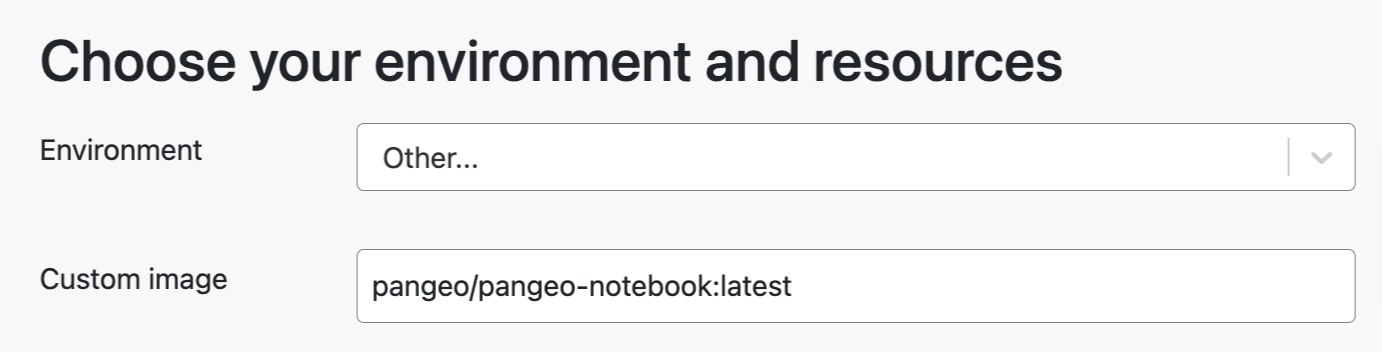
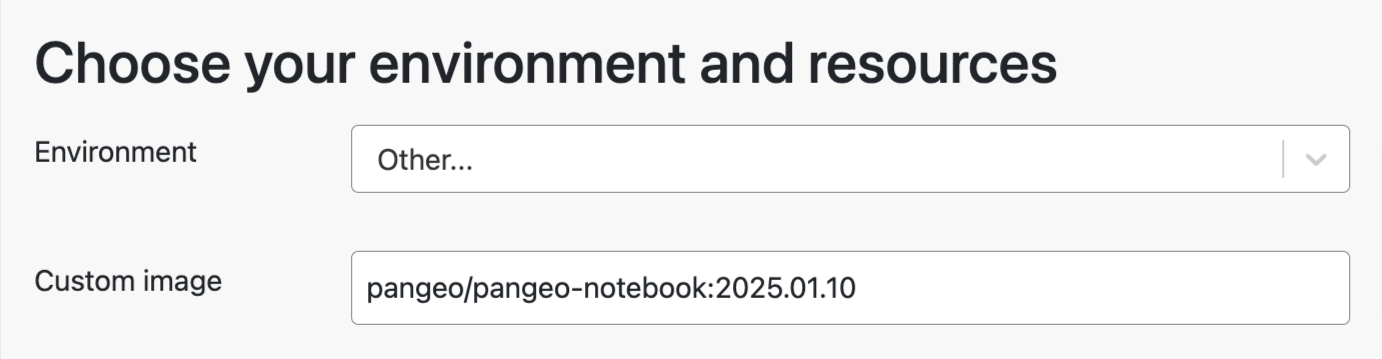
Deploy preview for PR 201 🛫

diff --git a/pr-preview/pr-201/nasa-veda-platform/scientific-computing/custom-environments.html b/pr-preview/pr-201/nasa-veda-platform/scientific-computing/custom-environments.html
@@ -670,7 +670,7 @@ ul.task-list li input[type="checkbox"] {
 </header>
 
 
-<p>The VEDA JupyterHub lists a few pre-configured environments (collections of Python or R libraries and/or other software) as <strong>Server Options</strong> intended to cover most common geospatial data science needs. These are effectively pre-built Docker images ready for users to launch.</p>
+<p>The VEDA JupyterHub lists a few pre-configured environments (collections of Python or R libraries and/or other software) as <strong>Server Options</strong> intended to cover most common geospatial data science needs. These are pre-built Docker images ready for users to launch.</p>
 <p>If you need a different configuration, there are two options for launching a <em>custom environment</em>:</p>
 <ul>
 <li><strong>Use some other pre-built, public Docker image</strong> (see <a href="#environment-other">Environment: Other</a>)</li>
@@ -688,17 +688,30 @@ ul.task-list li input[type="checkbox"] {
 </figure>
 </div>
 <p>At a minimum, the <strong>Custom image</strong> field must include both a name and a tag in the form <code>NAME:TAG</code>. There is no assumption that a name without a tag implies the <code>latest</code> tag, so a tag must be supplied.</p>
-<p>When the hostname of the image registry is not specified, it defaults to <code>docker.io</code>, the canonical hostname of the official Docker registry. Therefore, the following 2 image identifiers are equivalent:</p>
+<p>When the hostname of the image registry is not specified, it defaults to <code>docker.io</code>, the canonical hostname of the official Docker registry. Therefore, the following custom image identifiers are equivalent:</p>
 <ul>
-<li><code>pangeo/pangeo-notebook:latest</code> (as shown in the screenshot above)</li>
-<li><code>docker.io/pangeo/pangeo-notebook:latest</code> (including a registry hostname prefix)</li>
+<li><code>pangeo/pangeo-notebook:2025.01.10</code> (registry hostname is <em>implicitly</em> <code>docker.io</code>)</li>
+<li><code>docker.io/pangeo/pangeo-notebook:2025.01.10</code></li>
 </ul>
-<p>If you wish to use an image hosted in a regsistry other than <code>docker.io</code>, you must explicitly specify the hostname of the registry. Note the intervening <code>/</code> between the hostname and the remainder of the identifier shown in the second bulleted item above.</p>
+<p>If you wish to use an image hosted in a registry other than <code>docker.io</code>, the custom image identifier must also include the registry hostname (in addition to a name and a tag). For example, images hosted in the GitHub Container Registry use the hostname <code>ghrc.io</code>, such as this “Tidyverse based R image with Python”: <code>ghcr.io/nmfs-opensci/container-images/py-rocket-base:4.4-3.10</code></p>
+<div class="callout callout-style-default callout-warning callout-titled">
+<div class="callout-header d-flex align-content-center">
+<div class="callout-icon-container">
+<i class="callout-icon"></i>
+</div>
+<div class="callout-title-container flex-fill">
+Warning
+</div>
+</div>
+<div class="callout-body-container callout-body">
+<p>If you specify <code>latest</code> for the image tag, keep in mind that the image tagged <code>latest</code> may change over time, always referring to the latest published version. If you wish to “pin” the image each time you launch an environment, then use a specific tag, as shown in the examples above, to ensure you’re launching an environment from the same image version each time.</p>
+</div>
+</div>
 <p>Once you have specified your custom image, choose your desired <strong>Resource Allocation</strong> and press the <strong>Start</strong> button at the bottom of the form to launch your environment.</p>
 </section>
 <section id="environment-build-your-own-image" class="level2">
 <h2 class="anchored" data-anchor-id="environment-build-your-own-image">Environment: Build your own image</h2>
-<p>When you wish to use a custom environment, but are not aware of a publicly available Docker image that suits your needs, the <strong>Environment</strong> option <strong>Build your own image</strong> provides a relatively easy and convenient means for building and using your desired environment (image), without requiring knowledge of Docker.</p>
+<p>When you wish to use a custom environment, but are not aware of a publicly available Docker image that suits your needs, the <strong>Environment</strong> option <strong>Build your own image</strong> provides a relatively easy and convenient means for building your desired image, without requiring knowledge of Docker.</p>
 <p>This option leverages the <a href="https://repo2docker.readthedocs.io/en/stable/index.html">repo2docker</a> tool to handle the grunt work of building a custom Docker image for you, by allowing you to <strong>fully describe your desired image via files in a public code repository</strong>.</p>
 <div class="callout callout-style-default callout-note callout-titled">
 <div class="callout-header d-flex align-content-center">
@@ -715,18 +728,25 @@ Note
 </div>
 <section id="describing-your-image" class="level3">
 <h3 class="anchored" data-anchor-id="describing-your-image">Describing Your Image</h3>
-<p>The beauty of leveraging <strong>repo2docker</strong> is that it will use the contents of a public code repository (repo) to build a Docker image, doing all of the heavy lifting for you. You do not need to know how to write a <code>Dockerfile</code> because it generates one for you. Hence the name <em>repo2docker</em>.</p>
-<p>In brief, repo2docker allows you to describe the following within a public GitHub repository:</p>
+<p>The beauty of <strong>repo2docker</strong> is that it will use the contents of a public code repository (repo) to build a Docker image, doing all of the heavy lifting for you. You do not need to know how to write a <code>Dockerfile</code> because it generates one for you. Hence the name <em>repo2docker</em>.</p>
+<p>In brief, repo2docker allows you to describe the following within a public GitHub repository (for full details, see <a href="https://repo2docker.readthedocs.io/en/stable/configuration/index.html">Configuring your repository</a>):</p>
 <ul>
-<li>A <strong>list of dependencies</strong> to install, specified via various files (such as <code>environment.yml</code>, <code>requirements.txt</code>, or <code>apt.txt</code>, among others), and are installed <strong>in addition to</strong> a <a href="https://github.com/jupyterhub/repo2docker/blob/HEAD/repo2docker/buildpacks/conda/environment.yml">base set of dependencies</a>.</li>
-<li><em>Optionally</em>, a <strong>post-build script</strong> to run after all dependencies are installed (this must be named <a href="https://repo2docker.readthedocs.io/en/stable/config_files.html#postbuild-run-code-after-installing-the-environment">postBuild</a>)</li>
-<li><em>Optionally</em>, a <strong>pre-session script</strong> to run each time you start a server with your image (this must be named <a href="https://repo2docker.readthedocs.io/en/stable/config_files.html#start-run-code-before-the-user-sessions-starts">start</a>)</li>
+<li>A <strong>list of packages and runtimes</strong> to install (<strong>in addition to</strong> a <a href="https://github.com/jupyterhub/repo2docker/blob/HEAD/repo2docker/buildpacks/conda/environment.yml">base set of packages</a>), specified via various files, such as the following (among others):
+<ul>
+<li><code>environment.yml</code>: for any kind of conda package (and/or <code>pip</code> package), including specific versions of programming languages</li>
+<li><code>install.R</code>: for R packages (if not using <code>environment.yml</code>)</li>
+<li><code>requirements.txt</code>: for <code>pip</code> packages (if not using <code>environment.yml</code>)</li>
+<li><code>runtime.txt</code>: for specifying versions of runtimes (such as Python or R) when other files (such as <code>install.R</code> and <code>requirements.txt</code>) do not support doing so</li>
+<li><code>apt.txt</code>: for specifying Ubuntu packages installed via <code>apt</code></li>
+</ul></li>
+<li><em>Optionally</em>, a <strong>post-build script</strong> to run after all packages and runtimes are installed (this must be named <a href="https://repo2docker.readthedocs.io/en/stable/config_files.html#postbuild-run-code-after-installing-the-environment">postBuild</a>)</li>
+<li><em>Optionally</em>, a <strong>pre-session script</strong> to run each time you launch a new environment with your image (this must be named <a href="https://repo2docker.readthedocs.io/en/stable/config_files.html#start-run-code-before-the-user-sessions-starts">start</a>)</li>
 </ul>
-<p>Such files from your repository are used to construct a <code>Dockerfile</code> file on your behalf, so you don’t have to write one yourself, unless your really want to. If your repo contains a <code>Dockerfile</code>, repo2docker will ignore all other files in your repo that it would otherwise use to generate a <code>Dockerfile</code>, and simply use the <code>Dockerfile</code> from your repo.</p>
+<p>Such files from your repository are used to construct a <code>Dockerfile</code> file on your behalf, so you don’t have to write one yourself, unless you really want to. If your repo contains a <code>Dockerfile</code>, repo2docker will ignore all other files in your repo that it would otherwise use to generate a <code>Dockerfile</code>, and simply use the <code>Dockerfile</code> from your repo directly.</p>
 <p>For complete details on what repo2docker supports, see the following:</p>
 <ul>
-<li><a href="https://repo2docker.readthedocs.io/en/stable/usage.html#where-to-put-configuration-files">Where to put configuration files</a></li>
 <li><a href="https://repo2docker.readthedocs.io/en/stable/configuration/index.html">Configuring your repository</a></li>
+<li><a href="https://repo2docker.readthedocs.io/en/stable/usage.html#where-to-put-configuration-files">Where to put configuration files</a></li>
 <li><a href="https://repo2docker.readthedocs.io/en/stable/architecture.html">Architecture</a></li>
 <li><a href="https://repo2docker.readthedocs.io/en/stable/faq.html">Frequently Asked Questions (FAQ)</a></li>
 <li><a href="https://github.com/binder-examples">Example repositories</a></li>
@@ -747,7 +767,21 @@ Note
 <li><strong>Full URL</strong> (e.g., <a href="https://github.com/binder-examples/conda" class="uri">https://github.com/binder-examples/conda</a>)</li>
 <li><strong>Namespace/name pair</strong> (e.g., <code>binder-examples/conda</code>), where a namespace is either a GitHub <em>username</em> or <em>organization</em> (<code>binder-examples</code> in this example).</li>
 </ul>
-<p>In the <strong>Git Ref</strong> field, if you want repo2docker to use the most recent versions of files from the default branch of the repository (typically <code>main</code>), then use the default value <strong>HEAD</strong> to indicate the most recent commit. Alternatively, you may specify a <strong>branch name</strong>, a <strong>tag</strong>, or a specific <strong>commit identifier</strong> to indicate a different commit for repo2docker to use.</p>
+<p>In the <strong>Git Ref</strong> field, if you want repo2docker to use the most recent changes (latest commit) on the default branch of the repository (typically <code>main</code>), then use the default value <strong>HEAD</strong> to indicate the latest commit. Alternatively, you may specify a <strong>branch name</strong>, a <strong>tag</strong>, or a specific <strong>commit identifier</strong> to indicate a different commit for repo2docker to use.</p>
+<div class="callout callout-style-default callout-note callout-titled">
+<div class="callout-header d-flex align-content-center">
+<div class="callout-icon-container">
+<i class="callout-icon"></i>
+</div>
+<div class="callout-title-container flex-fill">
+Note
+</div>
+</div>
+<div class="callout-body-container callout-body">
+<p>When specifying a commit identifier such as <strong>HEAD</strong> or a <strong>branch name</strong>, such a commit identifier may reference different commits over time because it represents a <em>logical</em> commit, not a <em>specific</em> commit. In the case of <strong>HEAD</strong> or a <strong>branch name</strong>, it represents the <em>latest</em> commit on the specified branch (whichever <em>specific</em> commit that happens to be at the current moment).</p>
+<p>This means that each time you choose to build your image using such a <em>logical</em> value for <strong>Git Ref</strong>, the system will rebuild your image if the logical reference points to a different commit than it did the last time you built your image. This is useful for making a series of alternating commits and builds during “development” of your image.</p>
+</div>
+</div>
 <p>Once you’ve specified both <strong>Repository</strong> and <strong>Git Ref</strong>, click the <strong>Build image</strong> button to trigger repo2docker to build your image (which may take several minutes), and you should see log messages appear below the <strong>Build image</strong> button, similar to the following:</p>
 <div class="quarto-figure quarto-figure-center">
 <figure class="figure">
@@ -762,8 +796,7 @@ Note
 <figcaption>Image build has finished</figcaption>
 </figure>
 </div>
-<p>The next time you click <strong>Build image</strong> for the same values of <strong>Repository</strong> and <strong>Git Ref</strong>, if the Git Ref refers to the same commit in the repository as it did when you last clicked <strong>Build image</strong>, the previously built image will be reused, and you should again see the message highlighted above, but it should appear much more quickly since no new build is necessary in this case.</p>
-<p>Once your image has been built, it’s ready for use. As with all other environment options, select your desired <strong>Resource Allocation</strong> and click the <strong>Start</strong> button to launch a Docker container using your custom image.</p>
+<p>At this point, your image is ready for use. As with all other environment options, select your desired <strong>Resource Allocation</strong> and click the <strong>Start</strong> button to launch a Docker container using your custom image.</p>
 <div class="callout callout-style-default callout-note callout-titled">
 <div class="callout-header d-flex align-content-center">
 <div class="callout-icon-container">
